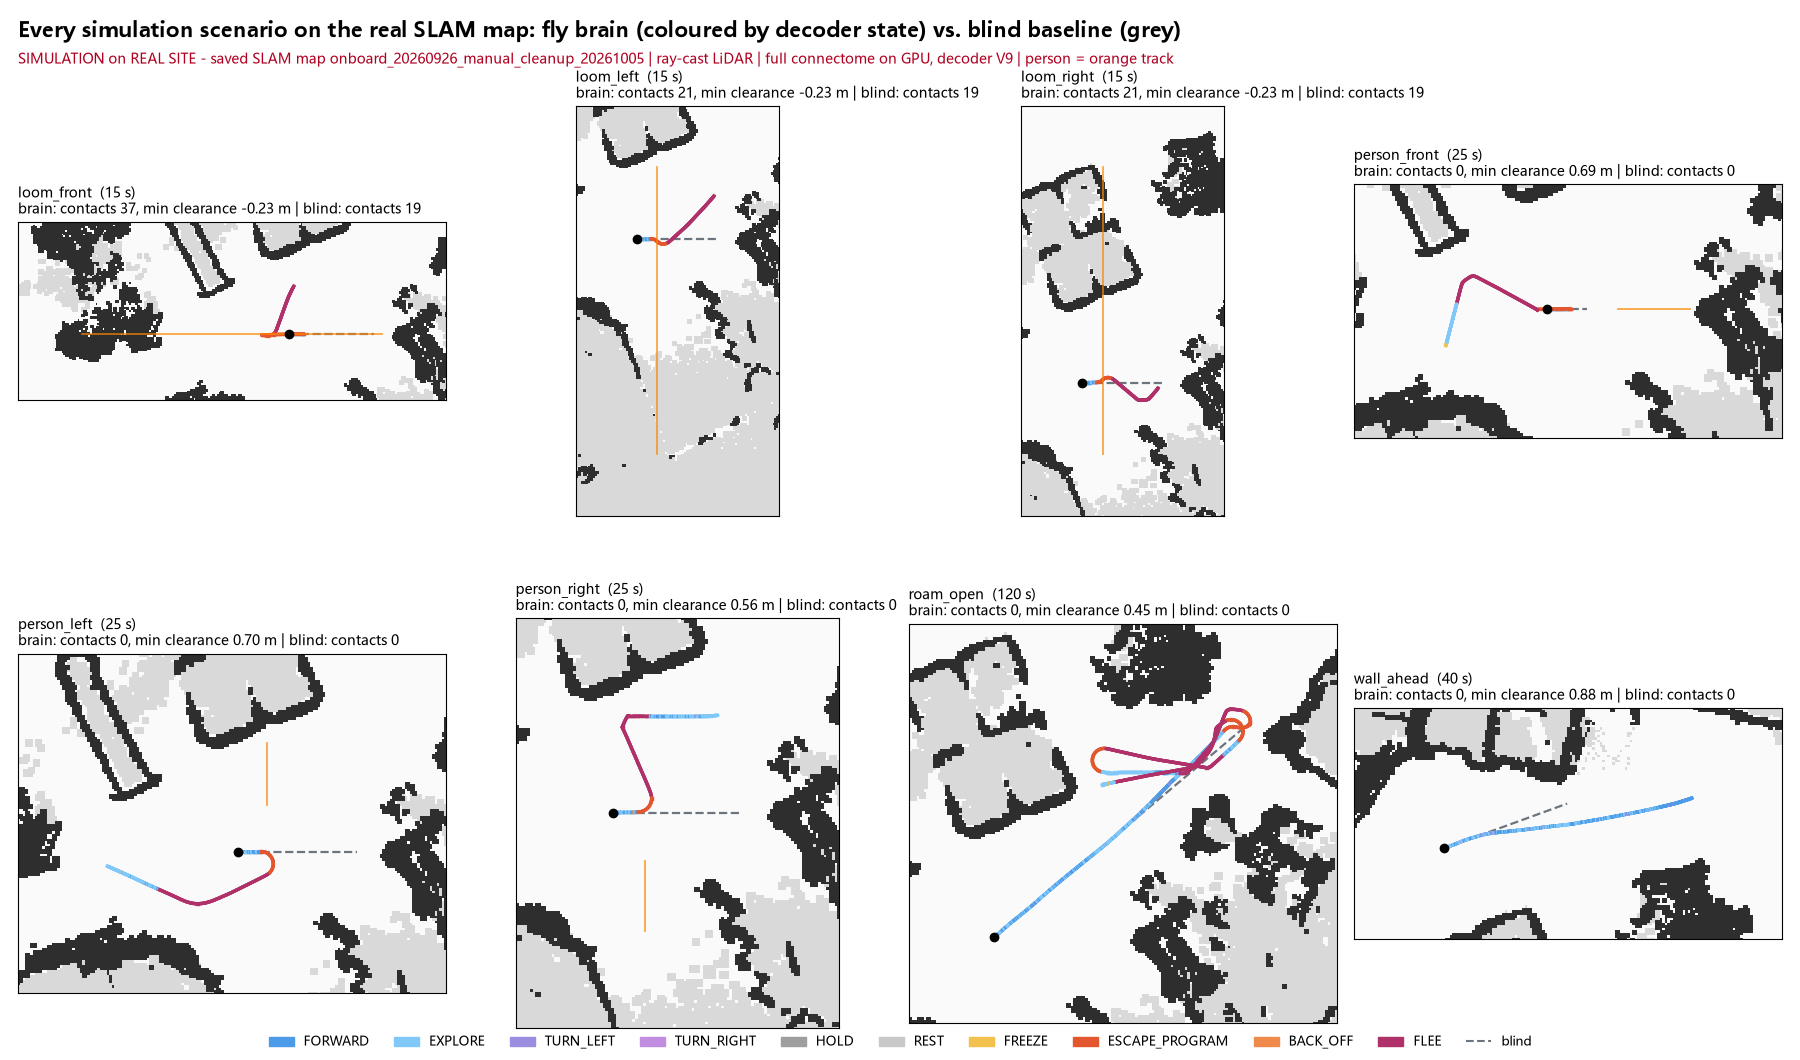
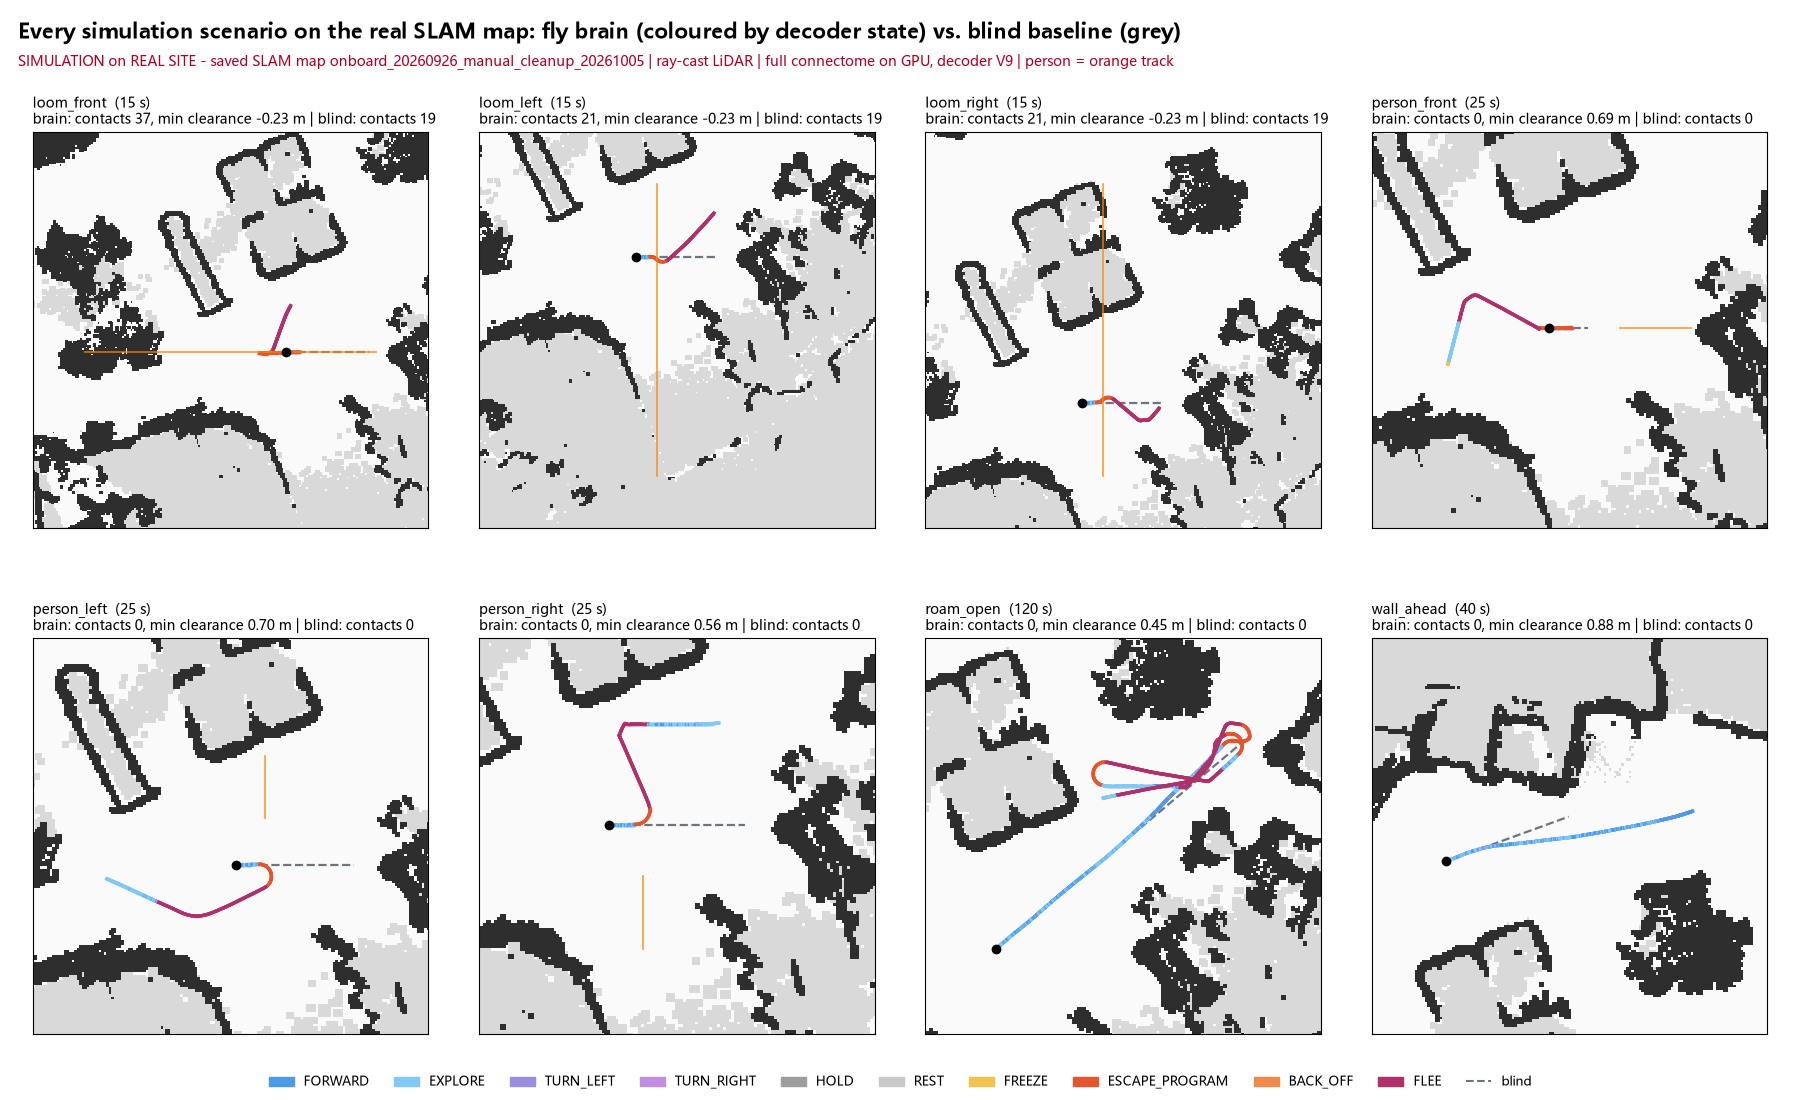
README: nothing folded; scenario figure with equal square panels

diff --git a/tools/render_real.py b/tools/render_real.py
@@ -286,8 +286,8 @@ def scenarios(out, pkg, run_dir):
     names = sorted({Path(f).stem.rsplit('_', 1)[0] for f in glob.glob(str(Path(run_dir) / '*_brain.jsonl'))})
     cols = 4
     rows_n = math.ceil(len(names) / cols)
-    fig, axs = plt.subplots(rows_n, cols, figsize=(18, 4.8 * rows_n + 1), dpi=100, squeeze=False)
-    fig.subplots_adjust(left=0.01, right=0.99, top=0.9, bottom=0.03, wspace=0.04, hspace=0.25)
+    fig, axs = plt.subplots(rows_n, cols, figsize=(18, 4.9 * rows_n + 1.2), dpi=110, squeeze=False)
+    fig.subplots_adjust(left=0.01, right=0.99, top=0.88, bottom=0.06, wspace=0.05, hspace=0.28)
     fig.text(0.01, 0.965, 'Every simulation scenario on the real SLAM map: fly brain (coloured by decoder state) vs. blind baseline (grey)', fontsize=15, weight='bold')
     fig.text(0.01, 0.94, 'SIMULATION on ' + (REAL % Path(pkg).name) + ' | ray-cast LiDAR | full connectome on GPU, decoder V9 | person = orange track', fontsize=10, color='#b00020')
     for a, name in zip(axs.flat, names):
@@ -297,8 +297,9 @@ def scenarios(out, pkg, run_dir):
         xy = np.array([[r['x'], r['y']] for r in B + X])
         objs = np.array([o for r in B for o in r.get('objects', [])]) if B[0].get('objects') else np.zeros((0, 2))
         allxy = np.vstack([xy, objs]) if len(objs) else xy
-        pad = 1.8
-        view = (allxy[:, 0].min() - pad, allxy[:, 0].max() + pad, allxy[:, 1].min() - pad, allxy[:, 1].max() + pad)
+        c = (allxy.min(0) + allxy.max(0)) / 2
+        half = max(3.5, (allxy.max(0) - allxy.min(0)).max() / 2 + 1.5)       # same square window shape for every panel
+        view = (c[0] - half, c[0] + half, c[1] - half, c[1] + half)
         base_image(a, nm, view)
         if X:
             a.plot([r['x'] for r in X], [r['y'] for r in X], color='#6c757d', lw=1.6, ls='--', label='blind')
